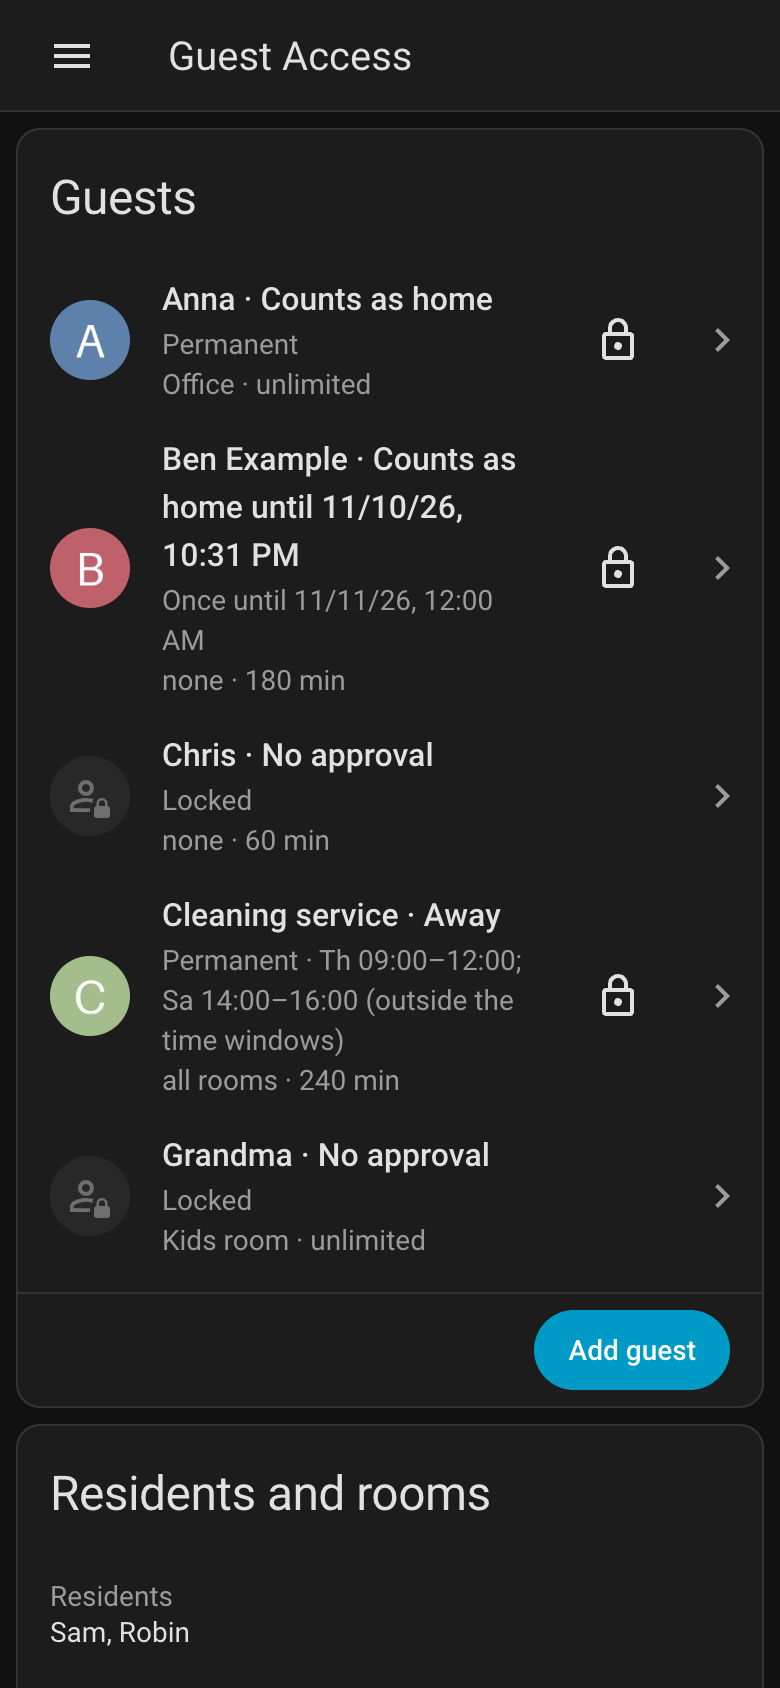
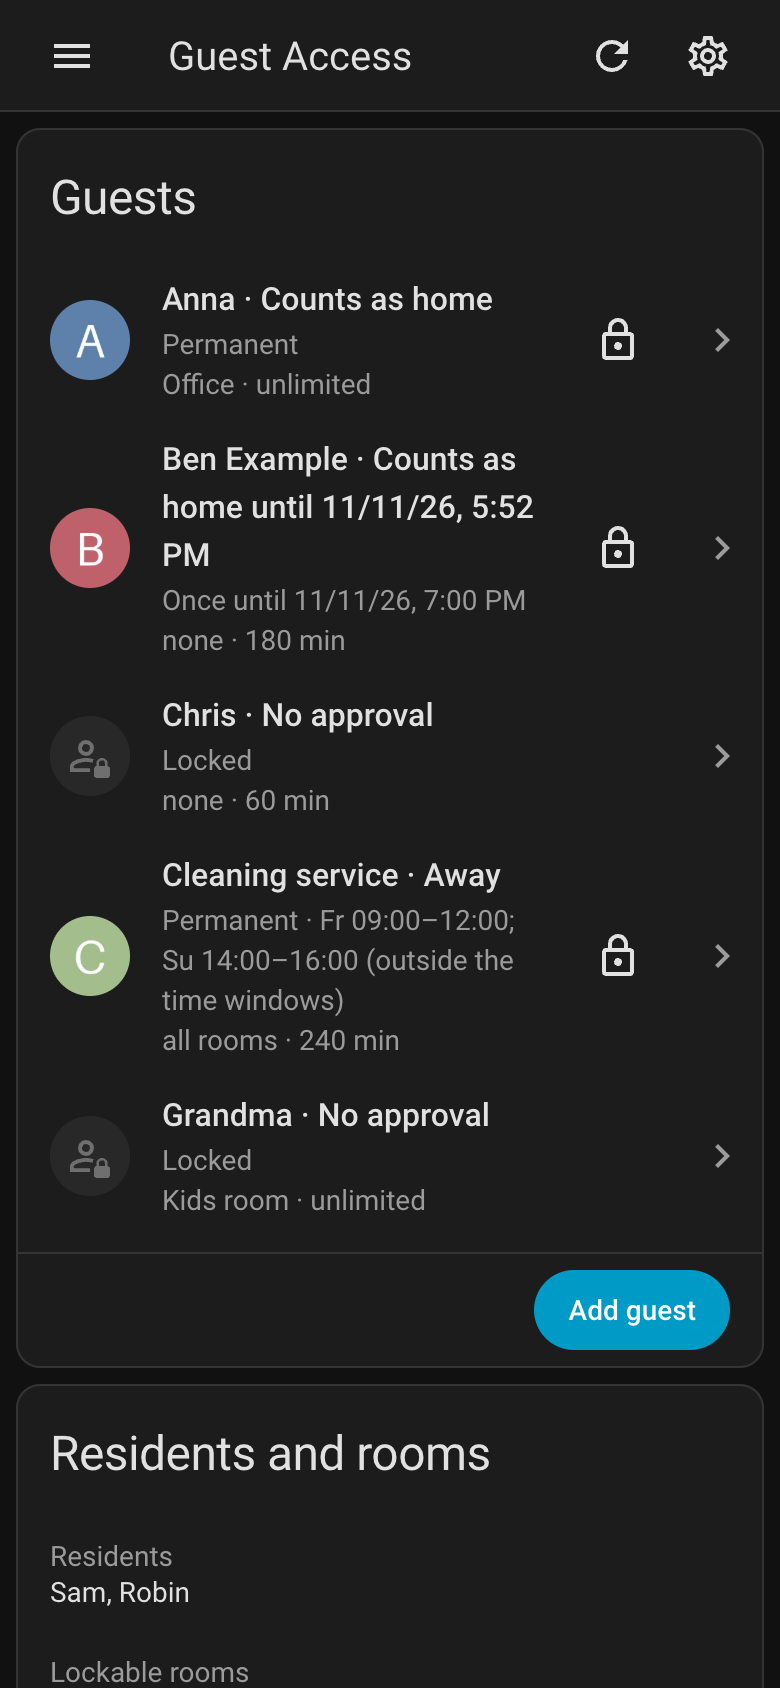
0.5.0: same header as the apps on every page
Stamp "As of HH:MM:SS", refresh over the WebSocket and settings button to
the integration's page, on the list and every subpage (STANDARD.md §7).
The Page check tests all three; screenshots refreshed.

diff --git a/custom_components/guest_access/frontend/guest-access-panel.js b/custom_components/guest_access/frontend/guest-access-panel.js
@@ -106,6 +106,9 @@ if (!customElements.get("guest-access-panel")) {
       csvHeader: "Date;Start;End;Hours",
       about: "Guest Access {version}",
       aboutCommit: "Guest Access {version} · commit {commit}",
+      asOf: "As of {time}",
+      refresh: "Refresh",
+      integrationSettings: "Settings",
     },
     de: {
       title: "Guest Access",
@@ -204,9 +207,14 @@ if (!customElements.get("guest-access-panel")) {
       csvHeader: "Datum;Beginn;Ende;Stunden",
       about: "Guest Access {version}",
       aboutCommit: "Guest Access {version} · Commit {commit}",
+      asOf: "Stand {time}",
+      refresh: "Aktualisieren",
+      integrationSettings: "Einstellungen",
     },
   };
   const KINDS = ["off", "once", "until", "permanent"];
+  // Home Assistant's page of the integration, behind the settings button
+  const INTEGRATION_PAGE = "/config/integrations/integration/guest_access";
   // A failed subscription, the entry still loading say, is tried again after this time
   const RETRY_MS = 5000;
   // Icon and colour per status, as the status sensor shows it
@@ -244,6 +252,12 @@ if (!customElements.get("guest-access-panel")) {
     ha-top-app-bar-fixed { height: 100%;
       --app-header-background-color: var(--sidebar-background-color, var(--card-background-color));
       --app-header-border-bottom: 1px solid var(--divider-color); }
+    /* The header's actions, as on every page of Nico's apps and integrations: stamp,
+       refresh, settings */
+    .stamp { color: var(--secondary-text-color); font-size: var(--ha-font-size-m, 14px);
+      white-space: nowrap; align-self: center; margin-inline-end: 4px; }
+    #refresh.loading ha-icon { animation: spin 1s linear infinite; }
+    @keyframes spin { to { transform: rotate(360deg); } }
     .about { text-align: center; color: var(--secondary-text-color); font-size: var(--ha-font-size-s, 12px);
       padding: 8px 0 24px; }
     .visits { margin: 8px 0; }
@@ -292,6 +306,7 @@ if (!customElements.get("guest-access-panel")) {
     ha-alert { display: block; }
     ha-alert ha-button { margin-inline-start: 8px; }
     @media (max-width: 600px) {
+      .stamp { display: none; }
       .content { padding: 8px; gap: 8px; }
       .row { flex-direction: column; align-items: flex-start; gap: 2px; }
       .row .label { width: auto; }
@@ -358,18 +373,24 @@ if (!customElements.get("guest-access-panel")) {
       this._unsub = this._hass.connection.subscribeMessage(
         (data) => {
           this._data = data;
+          this._stamp = new Date();
+          const refreshed = this._loading;
+          this._loading = false;
           if (this._subscribeFailed) {
             // Loaded after all: the error of the failed attempt is gone
             this._subscribeFailed = false;
             this._error = "";
           }
-          // An open form keeps what is being typed; only the list follows the state
-          if (!this._form) this._render();
+          // An open form keeps what is being typed; only the list follows the state.
+          // A refresh asked for redraws a form as well, from the values typed so far.
+          if (!this._form || refreshed) this._render();
+          else this._renderHeader();
         },
         { type: "guest_access/subscribe" },
       );
       const attempt = this._unsub;
       attempt.catch((err) => {
+        this._loading = false;
         this._error = err.message || String(err);
         this._subscribeFailed = true;
         this._render();
@@ -382,6 +403,42 @@ if (!customElements.get("guest-access-panel")) {
           if (this.isConnected && this._hass && !this._unsub) this._subscribe();
         }, RETRY_MS);
       });
+    }
+
+    // Header: fetch the data again over the WebSocket, without reloading the page
+    async _refresh() {
+      if (this._loading || !this._hass) return;
+      this._loading = true;
+      this._renderHeader();
+      clearTimeout(this._retry);
+      const old = this._unsub;
+      this._unsub = null;
+      if (old) await old.then((unsub) => unsub()).catch(() => {});
+      if (this.isConnected && !this._unsub) this._subscribe();
+      else this._loading = false;
+      this._renderHeader();
+    }
+
+    // Header: Home Assistant's page of the integration, opened as its own links do
+    _openIntegration() {
+      history.pushState(null, "", INTEGRATION_PAGE);
+      window.dispatchEvent(new CustomEvent("location-changed", { detail: { replace: false } }));
+    }
+
+    _renderHeader() {
+      const root = this.shadowRoot;
+      const stamp = root.getElementById("stamp");
+      if (stamp) {
+        const d = this._stamp;
+        stamp.textContent = d
+          ? this._t("asOf", { time: `${pad(d.getHours())}:${pad(d.getMinutes())}:${pad(d.getSeconds())}` })
+          : "";
+      }
+      const refresh = root.getElementById("refresh");
+      if (refresh) {
+        refresh.classList.toggle("loading", !!this._loading);
+        refresh.disabled = !!this._loading;
+      }
     }
 
     async _call(message) {
@@ -450,6 +507,7 @@ if (!customElements.get("guest-access-panel")) {
       const editing = !!this._form;
       const mode = editing ? `${this._form.kind}:${this._form.id ?? ""}` : "list";
       if (this._mode === mode && root.getElementById("content")) {
+        this._renderHeader();
         this._renderContent(root.getElementById("content"));
         return;
       }
@@ -470,6 +528,9 @@ if (!customElements.get("guest-access-panel")) {
               : `<ha-menu-button slot="navigationIcon"></ha-menu-button>`
           }
           <div slot="title">${esc(title)}</div>
+          <span class="stamp" slot="actionItems" id="stamp"></span>
+          <ha-icon-button slot="actionItems" id="refresh" label="${esc(this._t("refresh"))}"><ha-icon icon="mdi:refresh"></ha-icon></ha-icon-button>
+          <ha-icon-button slot="actionItems" id="integration" label="${esc(this._t("integrationSettings"))}"><ha-icon icon="mdi:cog-outline"></ha-icon></ha-icon-button>
           <div class="content" id="content"></div>
         </ha-top-app-bar-fixed>`;
       const menu = root.querySelector("ha-menu-button");
@@ -478,6 +539,9 @@ if (!customElements.get("guest-access-panel")) {
         menu.narrow = this._narrow;
       }
       root.querySelector("#back")?.addEventListener("click", () => this._close());
+      root.getElementById("refresh").addEventListener("click", () => this._refresh());
+      root.getElementById("integration").addEventListener("click", () => this._openIntegration());
+      this._renderHeader();
       this._renderContent(root.getElementById("content"));
     }
 

diff --git a/scripts/panel/check_panel.py b/scripts/panel/check_panel.py
@@ -25,6 +25,7 @@ import io
 import json
 from pathlib import Path
 import random
+import re
 import shutil
 import socket
 import subprocess
@@ -536,6 +537,10 @@ def expect(condition: bool, message: str) -> None:
 
 # The page lives in shadow roots; Playwright's CSS selectors pierce them
 PANEL = "guest-access-panel"
+STAMP = re.compile(r"^As of \d\d:\d\d:\d\d$")
+INTEGRATION_PAGE = "/config/integrations/integration/guest_access"
+# What each page sent over its WebSocket, for the refresh check
+SENT: dict[Page, list[dict[str, Any]]] = {}
 
 
 async def _open(
@@ -550,6 +555,17 @@ async def _open(
         color_scheme=options.pop("color_scheme", "light"),
     )
     page = await context.new_page()
+    sent: list[dict[str, Any]] = []
+    SENT[page] = sent
+
+    def on_frame(payload: str | bytes) -> None:
+        try:
+            message = json.loads(payload)
+        except ValueError:
+            return
+        sent.extend(message if isinstance(message, list) else [message])
+
+    page.on("websocket", lambda ws: ws.on("framesent", on_frame))
     await page.goto(f"{instance.base}/guest-access")
     await page.get_by_label("Username").fill(user[0])
     await page.get_by_label("Password", exact=True).fill(user[1])
@@ -592,6 +608,56 @@ def _guest(snapshot: dict[str, Any], guest_id: str) -> dict[str, Any] | None:
     return next((guest for guest in snapshot["guests"] if guest["id"] == guest_id), None)
 
 
+async def _header(page: Page) -> None:
+    """Stamp, refresh and settings in the top app bar, in this order, and nothing between."""
+    actions = await page.locator(f"{PANEL} [slot=actionItems]").evaluate_all(
+        "els => els.map(el => el.id)"
+    )
+    expect(actions == ["stamp", "refresh", "integration"], f"header actions are {actions}")
+    stamp = (await page.locator(f"{PANEL} #stamp").inner_text()).strip()
+    expect(bool(STAMP.match(stamp)), f"stamp is {stamp!r}")
+    for button, icon, label in (
+        ("refresh", "mdi:refresh", "Refresh"),
+        ("integration", "mdi:cog-outline", "Settings"),
+    ):
+        locator = page.locator(f"{PANEL} #{button}")
+        expect(await locator.is_visible(), f"{button} button not visible")
+        expect(await locator.get_attribute("label") == label, f"{button} button label")
+        found = await page.locator(f"{PANEL} #{button} ha-icon").get_attribute("icon")
+        expect(found == icon, f"{button} button shows {found}")
+
+
+async def _refresh(page: Page) -> None:
+    """The refresh button subscribes again, spins meanwhile and moves the stamp on."""
+    stamp = page.locator(f"{PANEL} #stamp")
+    before = (await stamp.inner_text()).strip()
+    # The stamp has seconds; a refresh in the same second would not move it
+    await page.wait_for_timeout(1100)
+    sent = SENT[page]
+    count = len(sent)
+    # Clicked from the page itself, so the spinning is seen before the data are back
+    spinning = await page.locator(f"{PANEL} #refresh").evaluate(
+        "el => { el.click(); return el.classList.contains('loading'); }"
+    )
+    expect(spinning, "the refresh button does not spin while loading")
+    await page.locator(f"{PANEL} #refresh:not(.loading)").wait_for()
+    after = (await stamp.inner_text()).strip()
+    expect(bool(STAMP.match(after)) and after != before, f"stamp {before!r} -> {after!r}")
+    types = [message.get("type") for message in sent[count:]]
+    expect("unsubscribe_events" in types, f"old subscription not ended: {types}")
+    expect("guest_access/subscribe" in types, f"data not fetched again: {types}")
+    expect(page.url.endswith("/guest-access"), f"refresh left the page: {page.url}")
+
+
+async def _settings_button(page: Page, instance: Instance) -> None:
+    """The settings button opens the integration's page inside the app, no reload."""
+    await page.evaluate("window.__noReload = true")
+    await page.locator(f"{PANEL} #integration").click()
+    await page.wait_for_url(f"{instance.base}{INTEGRATION_PAGE}")
+    await page.locator(PANEL).wait_for(state="detached")
+    expect(await page.evaluate("window.__noReload === true"), "the page was loaded anew")
+
+
 async def _until(check: Callable[[], Awaitable[bool]], what: str, seconds: float = 10) -> None:
     deadline = time.monotonic() + seconds
     while time.monotonic() < deadline:
@@ -632,7 +698,40 @@ async def check_page(browser: Browser, instance: Instance, api: Api, shots: Path
         text = await clean.inner_text()
         expect(text.endswith(" (outside the time windows)"), text)
 
+    async def header_on_list() -> None:
+        await _header(page)
+        await _refresh(page)
+        await _header(page)
+        await _settings_button(page, instance)
+
+    async def header_on_subpages() -> None:
+        # A guest, a new guest, residents and rooms: the three after back arrow and title
+        for open_subpage, ready in (
+            (page.locator(f"{PANEL} [data-edit='g_anna']"), "Visit log"),
+            (page.get_by_role("button", name="Add guest"), "Approval"),
+            (page.locator(f"{PANEL} #settings"), "Lockable rooms"),
+        ):
+            await open_subpage.click()
+            await page.get_by_text(ready, exact=True).first.wait_for()
+            await page.locator(f"{PANEL} #back").wait_for()
+            await _header(page)
+            await page.locator(f"{PANEL} #back").click()
+            await _list(page)
+        # A refresh on a form redraws it and keeps what was typed
+        await page.locator(f"{PANEL} [data-edit='g_ben']").click()
+        name = page.get_by_role("textbox", name="Name")
+        await name.fill("Ben typed")
+        await _refresh(page)
+        expect(await name.input_value() == "Ben typed", "the refresh dropped the typed name")
+        await page.locator(f"{PANEL} #back").click()
+        await _list(page)
+        await page.locator(f"{PANEL} #settings").click()
+        await page.get_by_text("Lockable rooms", exact=True).first.wait_for()
+        await _settings_button(page, instance)
+
     await checks.run("list shows guests, residents, rooms and version", list_shows_guests)
+    await checks.run("header: stamp, refresh and settings on the list", header_on_list)
+    await checks.run("header: stamp, refresh and settings on every subpage", header_on_subpages)
     await checks.run("a guest outside its windows is not shown as expired", window_is_not_expiry)
     if shots is not None:
         await page.screenshot(path=str(shots / "guests.png"))
@@ -835,6 +934,15 @@ async def check_page(browser: Browser, instance: Instance, api: Api, shots: Path
                 "() => document.documentElement.scrollWidth - document.documentElement.clientWidth"
             )
             expect(overflow <= 0, f"{scheme}: page scrolls sideways by {overflow} px")
+            expect(
+                not await phone.locator(f"{PANEL} #stamp").is_visible(),
+                f"{scheme}: the stamp shows on phone width",
+            )
+            for button in ("refresh", "integration"):
+                expect(
+                    await phone.locator(f"{PANEL} #{button}").is_visible(),
+                    f"{scheme}: {button} button missing on phone width",
+                )
             if shots is not None and scheme == "dark":
                 await phone.screenshot(path=str(shots / "phone-dark.png"))
             await phone.locator(f"{PANEL} [data-edit='g_anna']").click()
@@ -853,6 +961,7 @@ async def check_page(browser: Browser, instance: Instance, api: Api, shots: Path
                 expect(sum(channels) < 200, f"dark mode background is {background}")
             if instance.directory.exists():
                 await phone.screenshot(path=str(instance.directory / f"phone-{scheme}.png"))
+            SENT.pop(phone, None)
             await phone.context.close()
 
     await checks.run(

diff --git a/README.md b/README.md
@@ -239,7 +239,7 @@ Once Home Assistant has started, Guest Access opens a repair issue for every tra
 
 ### Page
 
-A sidebar page for administrators only, in English and German: the list of guests with photo and state, a "lock now" button that sets the approval to `off`, a form per guest (trackers, photo and note, approval and time windows, rooms and time, visit log), the residents, rooms and timings, and at the bottom the version and, when deployed with `scripts/deploy.sh`, the commit. Non-administrators get no page.
+A sidebar page for administrators only, in English and German: the list of guests with photo and state, a "lock now" button that sets the approval to `off`, a form per guest (trackers, photo and note, approval and time windows, rooms and time, visit log), the residents, rooms and timings, and at the bottom the version and, when deployed with `scripts/deploy.sh`, the commit. Every page and subpage has the same header as Nico's other apps and integrations: when the page last got its data ("As of 14:52:40", hidden at phone width), a refresh button that fetches the data again without reloading the page, and a settings button to Home Assistant's page of the integration. Non-administrators get no page.
 
 ### State
 

diff --git a/CHANGELOG.md b/CHANGELOG.md
@@ -4,6 +4,13 @@ All notable changes to this project are documented here. The format follows
 [Keep a Changelog](https://keepachangelog.com/en/1.1.0/), the versions
 [Semantic Versioning](https://semver.org/).
 
+## [0.5.0] - 2026-11-11
+
+### Added
+
+- The page has the same header as Nico's other apps and integrations, on the list and on every subpage: "As of HH:MM:SS" for when the page last got its data (hidden at phone width), a refresh button that fetches the data again over the WebSocket without reloading the page (it spins while loading; an open form is redrawn and keeps what was typed), and a settings button to Home Assistant's page of the integration.
+- The page check tests the header on the list and every subpage: order, stamp, refresh (subscribes again, spins, moves the stamp on), settings (opens the integration's page without reloading), and the stamp hidden at phone width. Screenshots refreshed.
+
 ## [0.4.0] - 2026-11-10
 
 ### Added
